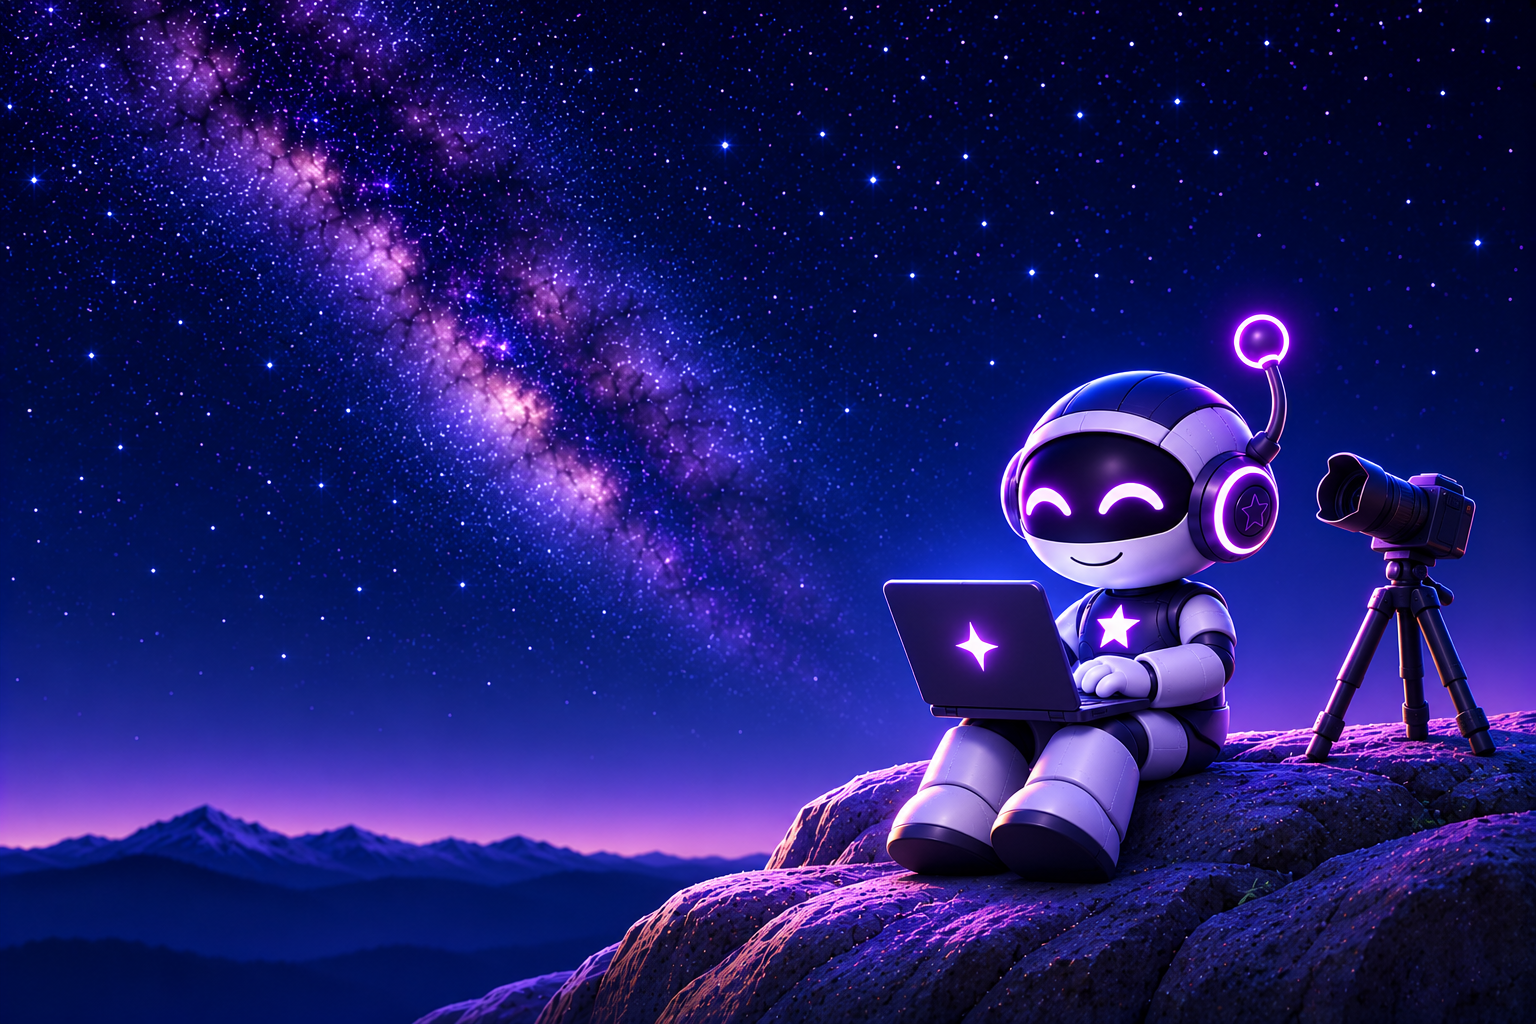
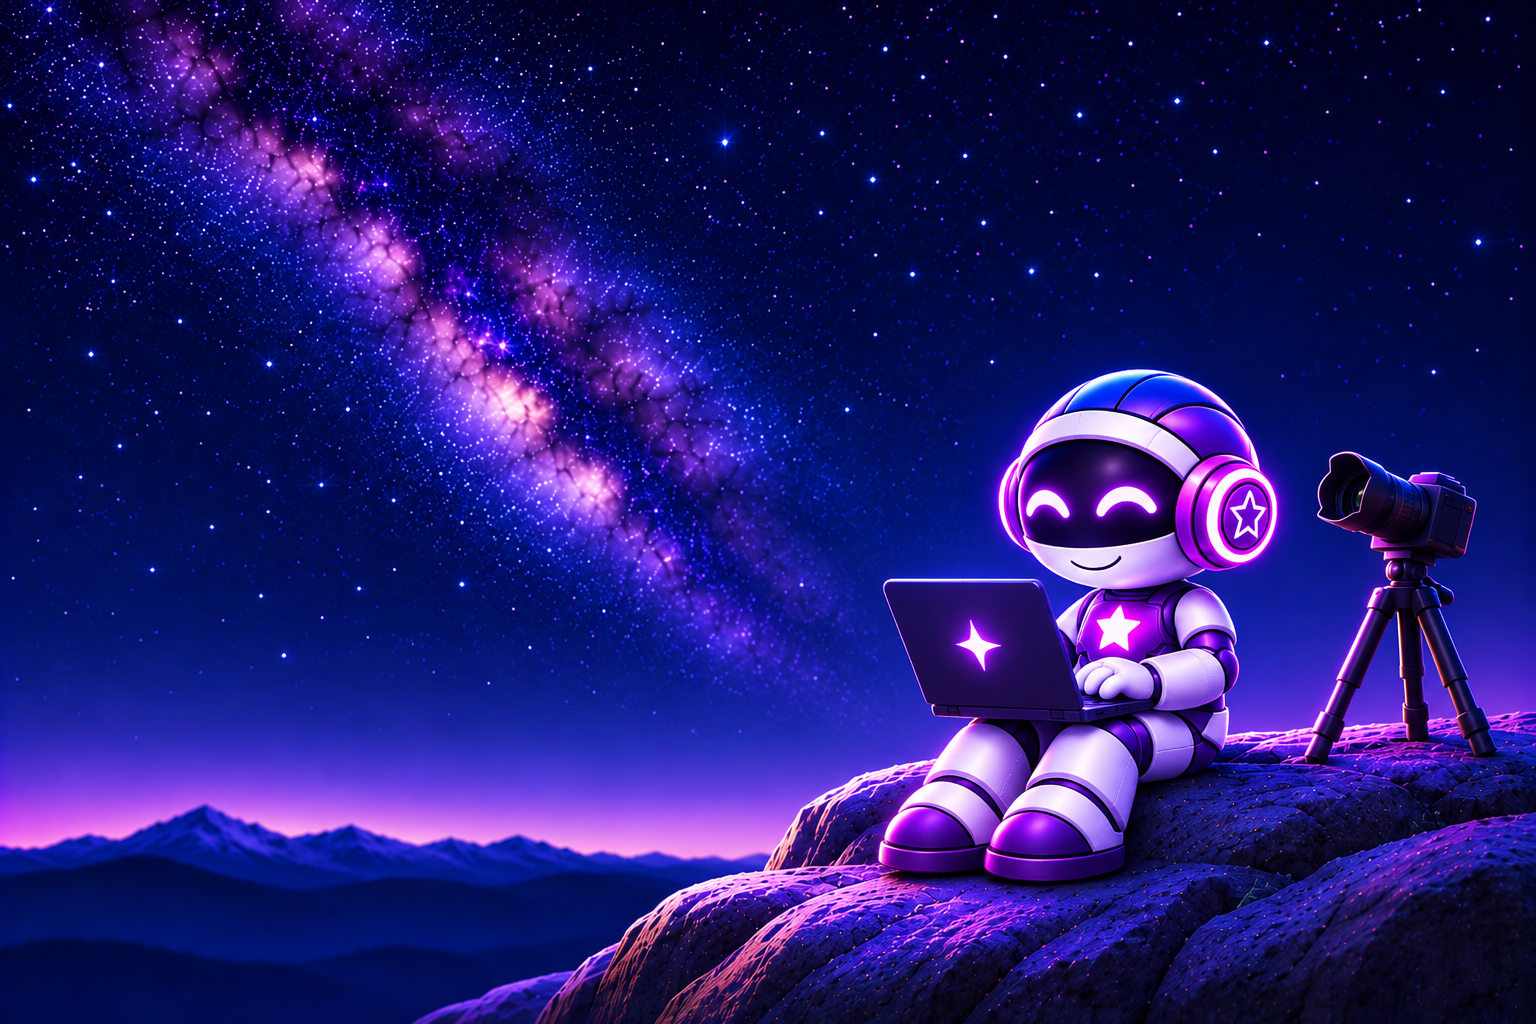
Artwork batch 3: last generated images, 8 masters replaced, 6 new slots
art/import_batch3.py copies the approved sources (sha256-checked); slots.json gains
art_drop_hover, art_preset_{best_quality,best_balance,fastest}, art_setting_{horizon_extension,keypoint_size}.
Regenerated both clients' assets and loaders; slot count 62 -> 68 in both tests;
art_process_gear leaves CHECKER_CLEANED (new PR-5b has real transparency).

diff --git a/star-desktop/src/main/kotlin/com/star/desktop/ui/components/StarArt.kt b/star-desktop/src/main/kotlin/com/star/desktop/ui/components/StarArt.kt
@@ -14,8 +14,8 @@ enum class ArtKind { CUTOUT, TILE, SCENE }
 enum class StarArt(val slot: String, val file: String, val kind: ArtKind, val width: Int, val height: Int) {
     ART_WORDMARK("art_wordmark", "art_wordmark.png", ArtKind.CUTOUT, 360, 69),
     ART_WELCOME_BACKGROUND("art_welcome_background", "art_welcome_background.jpg", ArtKind.SCENE, 1279, 720),
-    ART_ROBOT_AND_DOG("art_robot_and_dog", "art_robot_and_dog.jpg", ArtKind.SCENE, 680, 383),
-    ART_GREETER("art_greeter", "art_greeter.png", ArtKind.CUTOUT, 157, 220),
+    ART_ROBOT_AND_DOG("art_robot_and_dog", "art_robot_and_dog.jpg", ArtKind.SCENE, 680, 453),
+    ART_GREETER("art_greeter", "art_greeter.png", ArtKind.CUTOUT, 150, 220),
     ART_TILE_LOAD_VIDEO("art_tile_load_video", "art_tile_load_video.png", ArtKind.TILE, 48, 48),
     ART_TILE_LOAD_SEQUENCE("art_tile_load_sequence", "art_tile_load_sequence.png", ArtKind.TILE, 48, 48),
     ART_TILE_LOAD_CONFIG("art_tile_load_config", "art_tile_load_config.png", ArtKind.TILE, 48, 48),
@@ -33,8 +33,8 @@ enum class StarArt(val slot: String, val file: String, val kind: ArtKind, val wi
     ART_MODE_AUTO_SELECTIVE("art_mode_auto_selective", "art_mode_auto_selective.png", ArtKind.TILE, 64, 64),
     ART_GROUND_ALIGNMENT("art_ground_alignment", "art_ground_alignment.png", ArtKind.TILE, 64, 64),
     ART_SETTINGS("art_settings", "art_settings.png", ArtKind.CUTOUT, 49, 64),
-    ART_PROCESS("art_process", "art_process.png", ArtKind.CUTOUT, 56, 51),
-    ART_PROCESS_BODY("art_process_body", "art_process_body.png", ArtKind.CUTOUT, 43, 56),
+    ART_PROCESS("art_process", "art_process.png", ArtKind.CUTOUT, 56, 56),
+    ART_PROCESS_BODY("art_process_body", "art_process_body.png", ArtKind.CUTOUT, 41, 56),
     ART_PROCESS_GEAR("art_process_gear", "art_process_gear.png", ArtKind.CUTOUT, 56, 56),
     ART_DONE("art_done", "art_done.png", ArtKind.CUTOUT, 116, 120),
     ART_RENDERING("art_rendering", "art_rendering.png", ArtKind.CUTOUT, 96, 84),
@@ -73,7 +73,13 @@ enum class StarArt(val slot: String, val file: String, val kind: ArtKind, val wi
     ART_TOOL_INFORMATION("art_tool_information", "art_tool_information.jpg", ArtKind.SCENE, 180, 60),
     ART_CHANGE_MODE_AUTOMATIC("art_change_mode_automatic", "art_change_mode_automatic.png", ArtKind.TILE, 40, 40),
     ART_CHANGE_MODE_SELECTIVE("art_change_mode_selective", "art_change_mode_selective.png", ArtKind.TILE, 40, 40),
-    ART_CHANGE_MODE_DIRTY("art_change_mode_dirty", "art_change_mode_dirty.png", ArtKind.TILE, 40, 40);
+    ART_CHANGE_MODE_DIRTY("art_change_mode_dirty", "art_change_mode_dirty.png", ArtKind.TILE, 40, 40),
+    ART_DROP_HOVER("art_drop_hover", "art_drop_hover.png", ArtKind.CUTOUT, 75, 96),
+    ART_PRESET_BEST_QUALITY("art_preset_best_quality", "art_preset_best_quality.png", ArtKind.TILE, 40, 40),
+    ART_PRESET_BEST_BALANCE("art_preset_best_balance", "art_preset_best_balance.png", ArtKind.TILE, 40, 40),
+    ART_PRESET_FASTEST("art_preset_fastest", "art_preset_fastest.png", ArtKind.TILE, 40, 40),
+    ART_SETTING_HORIZON_EXTENSION("art_setting_horizon_extension", "art_setting_horizon_extension.jpg", ArtKind.SCENE, 210, 140),
+    ART_SETTING_KEYPOINT_SIZE("art_setting_keypoint_size", "art_setting_keypoint_size.jpg", ArtKind.SCENE, 210, 140);
 
     val resourcePath: String get() = "art/$file"
 }

diff --git a/gui/star/StarArt.swift b/gui/star/StarArt.swift
@@ -65,6 +65,12 @@ enum StarArt: String, CaseIterable {
     case changeModeAutomatic = "art_change_mode_automatic"
     case changeModeSelective = "art_change_mode_selective"
     case changeModeDirty = "art_change_mode_dirty"
+    case dropHover = "art_drop_hover"
+    case presetBestQuality = "art_preset_best_quality"
+    case presetBestBalance = "art_preset_best_balance"
+    case presetFastest = "art_preset_fastest"
+    case settingHorizonExtension = "art_setting_horizon_extension"
+    case settingKeypointSize = "art_setting_keypoint_size"
 
     enum Kind { case cutout, tile, scene }
 
@@ -132,6 +138,12 @@ enum StarArt: String, CaseIterable {
         case .changeModeAutomatic: return .tile
         case .changeModeSelective: return .tile
         case .changeModeDirty: return .tile
+        case .dropHover: return .cutout
+        case .presetBestQuality: return .tile
+        case .presetBestBalance: return .tile
+        case .presetFastest: return .tile
+        case .settingHorizonExtension: return .scene
+        case .settingKeypointSize: return .scene
         }
     }
 
@@ -140,8 +152,8 @@ enum StarArt: String, CaseIterable {
         switch self {
         case .wordmark: return CGSize(width: 360, height: 69)
         case .welcomeBackground: return CGSize(width: 1279, height: 720)
-        case .robotAndDog: return CGSize(width: 680, height: 383)
-        case .greeter: return CGSize(width: 157, height: 220)
+        case .robotAndDog: return CGSize(width: 680, height: 453)
+        case .greeter: return CGSize(width: 150, height: 220)
         case .tileLoadVideo: return CGSize(width: 48, height: 48)
         case .tileLoadSequence: return CGSize(width: 48, height: 48)
         case .tileLoadConfig: return CGSize(width: 48, height: 48)
@@ -159,8 +171,8 @@ enum StarArt: String, CaseIterable {
         case .modeAutoSelective: return CGSize(width: 64, height: 64)
         case .groundAlignment: return CGSize(width: 64, height: 64)
         case .settings: return CGSize(width: 49, height: 64)
-        case .process: return CGSize(width: 56, height: 51)
-        case .processBody: return CGSize(width: 43, height: 56)
+        case .process: return CGSize(width: 56, height: 56)
+        case .processBody: return CGSize(width: 41, height: 56)
         case .processGear: return CGSize(width: 56, height: 56)
         case .done: return CGSize(width: 116, height: 120)
         case .rendering: return CGSize(width: 96, height: 84)
@@ -200,6 +212,12 @@ enum StarArt: String, CaseIterable {
         case .changeModeAutomatic: return CGSize(width: 40, height: 40)
         case .changeModeSelective: return CGSize(width: 40, height: 40)
         case .changeModeDirty: return CGSize(width: 40, height: 40)
+        case .dropHover: return CGSize(width: 75, height: 96)
+        case .presetBestQuality: return CGSize(width: 40, height: 40)
+        case .presetBestBalance: return CGSize(width: 40, height: 40)
+        case .presetFastest: return CGSize(width: 40, height: 40)
+        case .settingHorizonExtension: return CGSize(width: 210, height: 140)
+        case .settingKeypointSize: return CGSize(width: 210, height: 140)
         }
     }
 }

diff --git a/star-desktop/src/test/kotlin/com/star/desktop/ui/components/StarArtTest.kt b/star-desktop/src/test/kotlin/com/star/desktop/ui/components/StarArtTest.kt
@@ -17,7 +17,7 @@ class StarArtTest {
 
     @Test
     fun everySlotLoads() {
-        assertEquals(62, StarArt.entries.size)
+        assertEquals(68, StarArt.entries.size)
         for (art in StarArt.entries) {
             val img = load(art)
             // The resource is the 2x image, or the largest the master allows (never upscaled).
@@ -60,6 +60,6 @@ class StarArtTest {
 
     private companion object {
         /** Slots whose master was an opaque picture with a painted checkerboard (cleaned by export.py). */
-        val CHECKER_CLEANED = setOf("art_horizon_auto", "art_process_gear", "art_waiting")
+        val CHECKER_CLEANED = setOf("art_horizon_auto", "art_waiting")
     }
 }

diff --git a/gui/starTests/starTests.swift b/gui/starTests/starTests.swift
@@ -4165,7 +4165,7 @@ final class SharedConstantsTests: XCTestCase {
 
     /// Art A4: every StarArt slot is an imageset in the app's asset catalog and loads at its display size or larger.
     func testEveryStarArtSlotLoads() throws {
-        XCTAssertEqual(StarArt.allCases.count, 62)
+        XCTAssertEqual(StarArt.allCases.count, 68)
         for art in StarArt.allCases {
             let image = try XCTUnwrap(NSImage(named: art.rawValue), "\(art.rawValue) is not in the asset catalog")
             XCTAssertGreaterThan(image.size.width, 0, art.rawValue)

diff --git a/art/import_batch3.py b/art/import_batch3.py
@@ -1,0 +1,51 @@
+#!/usr/bin/env python3
+"""One-off: copy the third artwork batch (LAST_IMAGES plus three DUMP picks) into art/masters.
+
+Each source's full sha256 is checked, then it is scaled as import_masters.py does (the "full"
+set stays full size, the rest go to 4x the largest box side among the slots using it).
+Usage: import_batch3.py [new_images dir]
+"""
+import glob, hashlib, json, os, sys
+from PIL import Image
+
+ROOT = sys.argv[1] if len(sys.argv) > 1 else "/Users/brian/git/nighttime_timelapse_airplane_remover/new_images"
+HERE = os.path.dirname(os.path.abspath(__file__))
+OUT = os.path.join(HERE, "masters")
+FULL = {"BR-5", "BR-7a", "BR-7b", "BR-7c"}
+L, D = "LAST_IMAGES/", "DUMP/*/images/"
+
+TABLE = {
[14 lines of base64/hex data omitted]
+}
+
+slots = json.load(open(os.path.join(HERE, "slots.json")))["slots"]
+maxpx = {}
+for s in slots:
+    m = round(4 * max(s.get("width") or 0, s.get("height") or 0))
+    maxpx[s["source"]] = max(maxpx.get(s["source"], 0), m)
+
+for mid, (rel, digest) in sorted(TABLE.items()):
+    found = glob.glob(os.path.join(ROOT, rel))
+    assert len(found) == 1, (mid, rel, found)
+    assert hashlib.sha256(open(found[0], "rb").read()).hexdigest() == digest, mid
+    im = Image.open(found[0]); im.load()
+    if mid not in FULL:
+        lim = maxpx[mid]
+        if max(im.size) > lim:
+            r = lim / max(im.size)
+            im = im.resize((round(im.width * r), round(im.height * r)), Image.LANCZOS)
+    im.save(os.path.join(OUT, mid + ".png"), optimize=True)
+    print(mid, im.size, im.mode)

diff --git a/docs/stages/s218.md b/docs/stages/s218.md
@@ -1,0 +1,3 @@
+# s218: artwork batch 3 (t215)
+
+Summary: `art/import_batch3.py` imports the last approved images (8 masters replaced, 6 new) and `art/slots.json` gains six slots (`art_drop_hover`, three `art_preset_*` tiles, two `art_setting_*` scenes), so both clients now load 68 slots.
